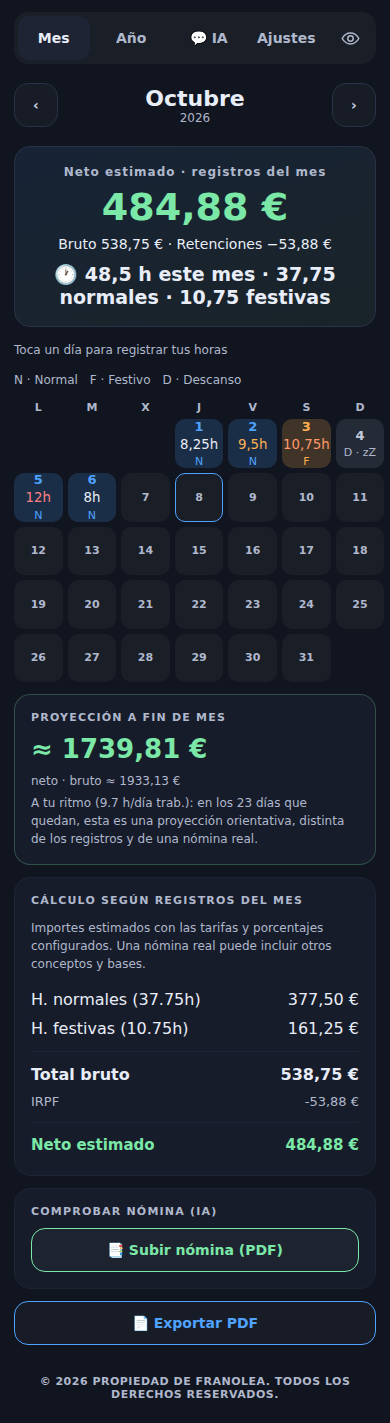
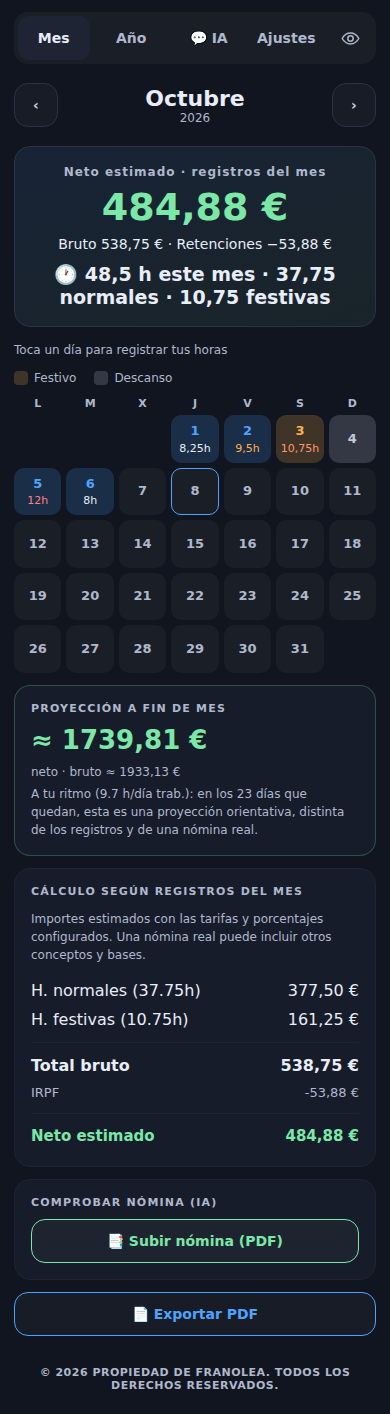
Refresh real mobile and tablet captures for simplified calendar

diff --git a/controlHoras/REVIEW_UI.md b/controlHoras/REVIEW_UI.md
@@ -25,11 +25,11 @@ El worker cambia de versión, precarga el HTML/manifest/iconos y elimina exclusi
 
 `python controlHoras/tests/browser_ui.py`: preparado para Chromium 320, 390, 768 vertical y 1280, capturas visible/oculto, CRUD, decimales, gráficos reales Chart.js, privacidad/remotos, PDF, movimiento reducido, uso local/offline y SW reales. **No ejecutado localmente**: sandbox bloquea sockets de Chromium y servidor incluso en localhost (`EPERM`). Las solicitudes de permiso de red fueron canceladas. No se afirma revisión visual ni funcionamiento Android físico.
 
-**Verificación real en navegador de GitHub Actions: PASS**, [ejecución del 8 de octubre](https://github.com/FranOO1/misApps/actions/runs/37840352505), commit `fec500df8bd698e638c0b2f6ab5377e81e23eeea`. Ejecutó Chromium 320/390/768 vertical/1280, CRUD/decimales/festivo/descanso, colores en editor y calendario, privacidad/persistencia/navegación, gráfico real Chart.js con dataset de horas, preferencia frente a remoto simulado, ajustes editables, PDF, texto IA escapado y movimiento reducido. Los cuatro tamaños pasaron las comprobaciones de desbordamiento.
+**Verificación real en navegador de GitHub Actions: PASS**, [ejecución del 8 de octubre](https://github.com/FranOO1/misApps/actions/runs/37842239778), commit `4dd2f35e9f056881141eff5ff7cfc368295544ab`. Ejecutó Chromium 320/390/768 vertical/1280, CRUD/decimales/festivo/descanso, colores en editor y calendario, privacidad/persistencia/navegación, gráfico real Chart.js con dataset de horas, preferencia frente a remoto simulado, ajustes editables, PDF, texto IA escapado y movimiento reducido. Los cuatro tamaños pasaron las comprobaciones de desbordamiento.
 
-También pasó **SW/CacheStorage reales**: instalación, apertura/registro/consulta offline, recarga y preferencia conservada, caché de Plantómetro conservada y fallo de JS sin HTML de sustitución. En el primer intento se detectó una respuesta 404 HTML del servidor para un recurso fallido; se corrigió el worker y la ejecución citada pasó. Es ejecución de navegador real con datos ficticios y Chart.js real; se bloquearon Auth/Firestore/IA externos. No es una prueba de sincronización, sesión o IA de producción.
+También pasó **SW/CacheStorage reales**: instalación, apertura/registro/consulta offline, recarga y preferencia conservada, caché de Plantómetro conservada y fallo de JS sin HTML de sustitución. La revisión del calendario sin letras pasó también en los cuatro tamaños, con fondos distintos para festivos y descansos. En el primer intento se detectó una respuesta 404 HTML del servidor para un recurso fallido; se corrigió el worker y la ejecución citada pasó. Es ejecución de navegador real con datos ficticios y Chart.js real; se bloquearon Auth/Firestore/IA externos. No es una prueba de sincronización, sesión o IA de producción.
 
-[Ocho capturas visibles/ocultas](https://github.com/FranOO1/misApps/actions/runs/37840352505/artifacts/11577003671) y copias permanentes en este PR:
+[Ocho capturas visibles/ocultas](https://github.com/FranOO1/misApps/actions/runs/37842239778/artifacts/11578296609) y copias permanentes en este PR:
 
 | Dispositivo | Importes visibles | Importes ocultos |
 | --- | --- | --- |
